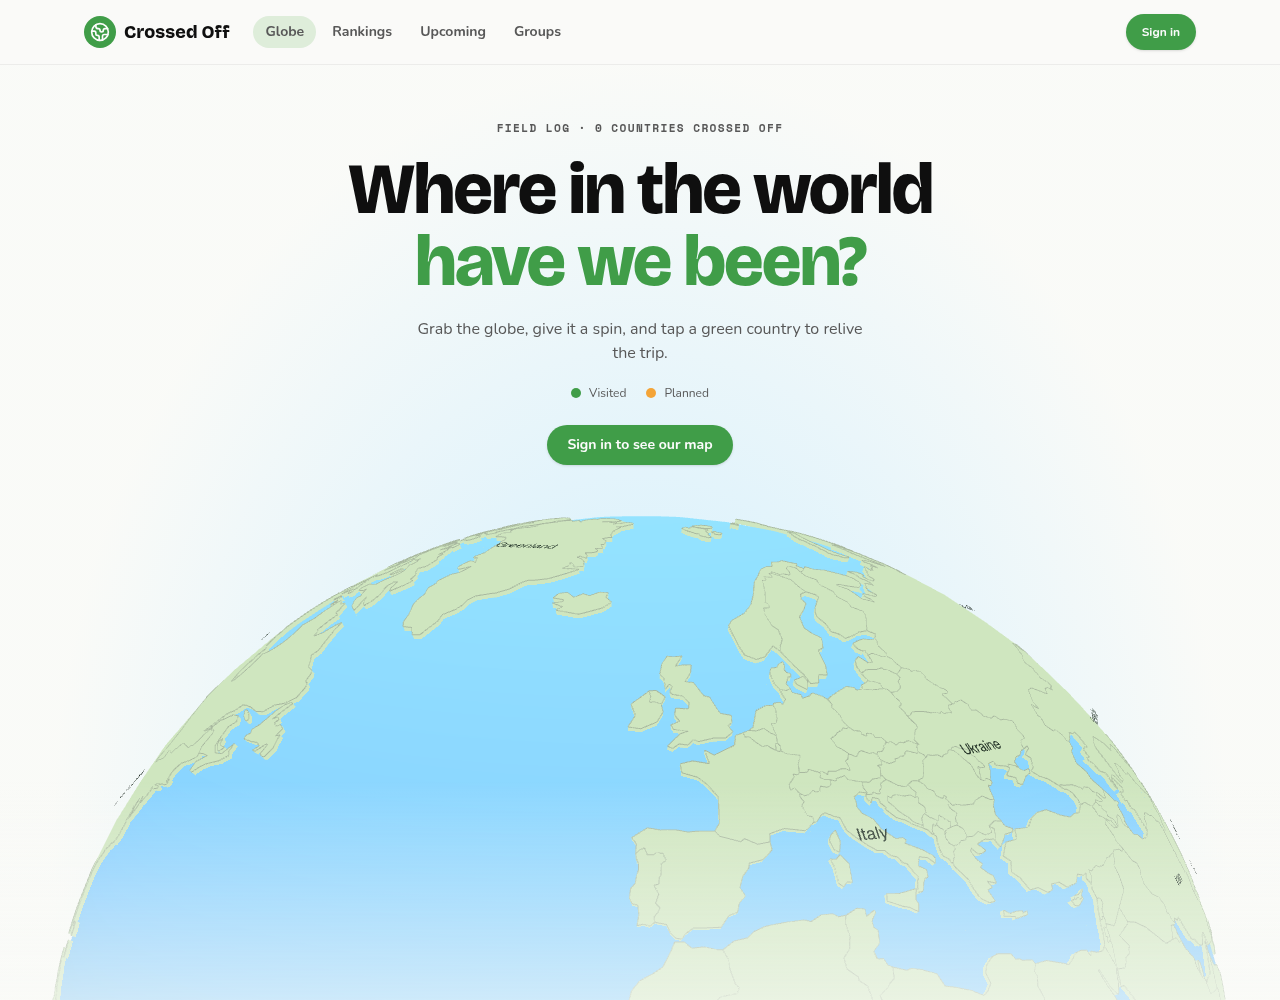
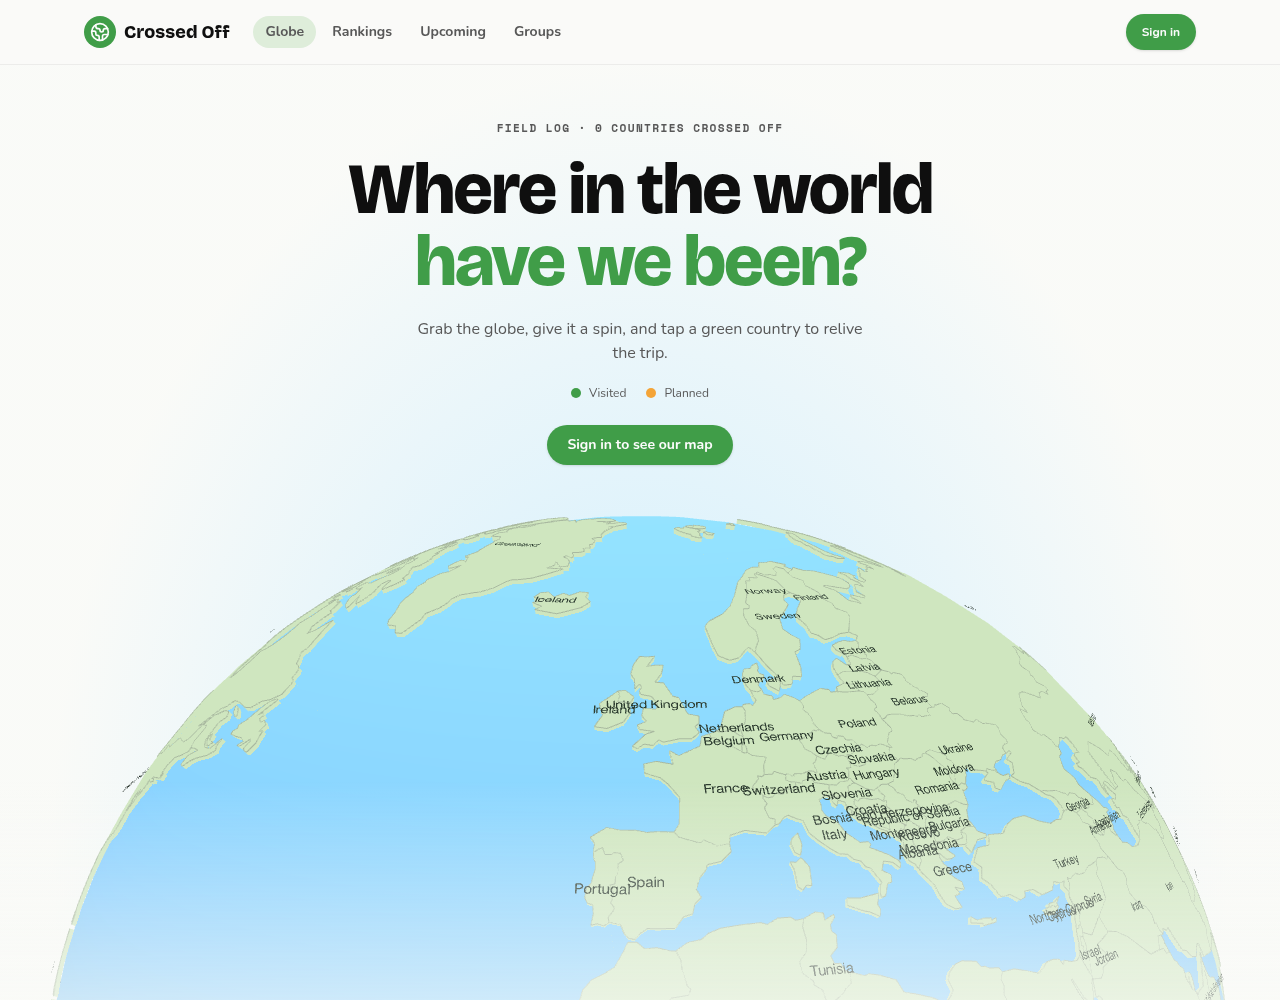
Changes

diff --git a/src/components/Globe.tsx b/src/components/Globe.tsx
@@ -112,7 +112,6 @@ export default function Globe({
       const g = f.geometry as { type: string; coordinates: number[][][] | number[][][][] };
       const polys = (g.type === "Polygon" ? [g.coordinates] : g.coordinates) as number[][][][];
       const ring = polys.reduce((a, b) => (b[0]!.length > a[0]!.length ? b : a))[0]!;
-      if (ring.length < 12) return [];
       const lng = ring.reduce((a, p) => a + p[0]!, 0) / ring.length;
       const lat = ring.reduce((a, p) => a + p[1]!, 0) / ring.length;
       return [{ lat, lng, name: f.properties.NAME }];
@@ -140,7 +139,7 @@ export default function Globe({
         showAtmosphere={false}
         labelsData={labels}
         labelText={(l: object) => (l as { name: string }).name}
-        labelSize={0.7}
+        labelSize={0.6}
         labelDotRadius={0}
         labelAltitude={0.014}
         labelResolution={2}
